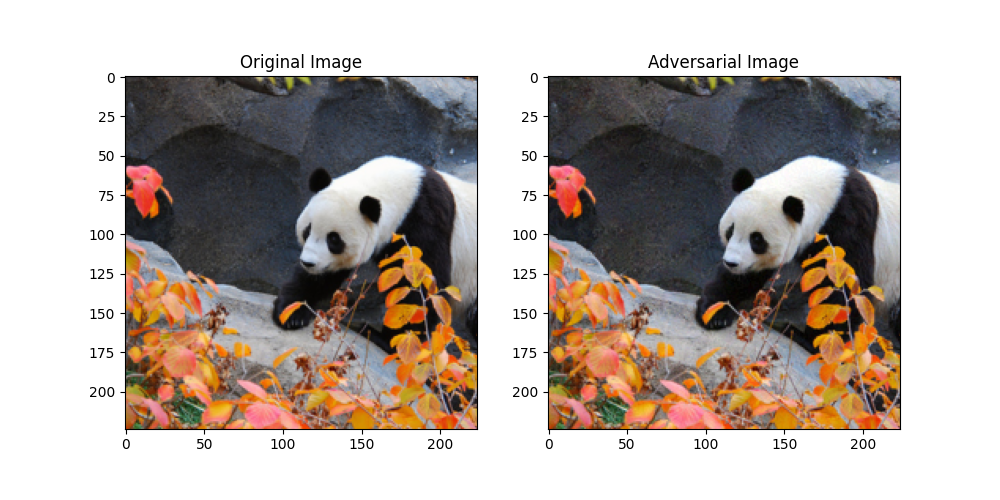
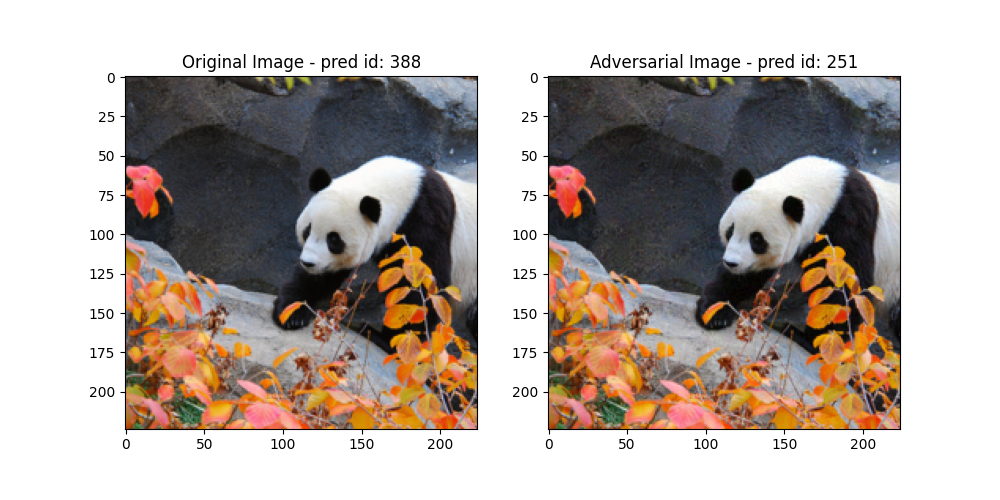
Updated README.md, added more models and tried extrapolation, single image example now test the adversarial image, added requirements.txt, removed unused functions and cleaned the code.

Changed region(s): [[0.186, 0.09, 0.434, 0.15], [0.589, 0.09, 0.868, 0.15]]

diff --git a/model_inference.py b/model_inference.py
@@ -1,7 +1,11 @@
 import torch
-import torchvision
 import torchvision.transforms as transforms
-from torchvision.models import resnet18, ResNet18_Weights
+from torchvision.models import (
+    resnet18, ResNet18_Weights,
+    resnet50, ResNet50_Weights,
+    convnext_tiny, ConvNeXt_Tiny_Weights,
+    convnext_small, ConvNeXt_Small_Weights
+)
 from torch.utils.data import DataLoader, Dataset
 from pathlib import Path
 from PIL import Image
@@ -10,7 +14,7 @@ import json
 from tqdm import tqdm
 import os
 
-from adversarial_transform import AdversarialDataset, FGSM
+from adversarial_transform import FGSM
 
 
 class ImageNetValidationDataset(Dataset):
@@ -42,12 +46,21 @@ class ImageNetValidationDataset(Dataset):
             
         return image, label
 
-def setup_model(device=torch.device('cpu')):
-    # Load pretrained ResNet18
-    weights = ResNet18_Weights(ResNet18_Weights.DEFAULT)
-    model = resnet18(weights=weights)
+def setup_model(model_name="resnet18", device=torch.device('cpu')):
+    model_configs = {
+        'resnet18': (resnet18, ResNet18_Weights.DEFAULT),
+        'resnet50': (resnet50, ResNet50_Weights.DEFAULT),
+        'convnext_tiny': (convnext_tiny, ConvNeXt_Tiny_Weights.DEFAULT),
+        'convnext_small': (convnext_small, ConvNeXt_Small_Weights.DEFAULT)
+    }
+    
+    if model_name not in model_configs:
+        raise ValueError(f"Model {model_name} not supported. Choose from {list(model_configs.keys())}")
+    
+    model_fn, weights = model_configs[model_name]
+    model = model_fn(weights=weights)
     model.eval()
-    return model.to(device) 
+    return model.to(device)
 
 def setup_validation_data(val_dir, batch_size=32):
     # Standard ImageNet transforms
@@ -87,23 +100,6 @@ def setup_validation_data(val_dir, batch_size=32):
     return val_dataset, val_loader
 
 
-def setup_validation_adversarial_data(val_dataset, model, epsilon=0.05, batch_size=32):
-    # Create adversarial dataset
-    adversarial_dataset = AdversarialDataset(
-        val_dataset, 
-        model, 
-        epsilon)
-        
-    # Create DataLoader
-    val_loader = DataLoader(
-        adversarial_dataset,
-        batch_size=batch_size,
-        shuffle=False,
-        num_workers=4
-    )
-    
-    return adversarial_dataset, val_loader
-
 def predict(model, val_loader):
     device = model.parameters().__next__().device
     predictions_top1 = []
@@ -128,7 +124,7 @@ def predict_adversarial(model, val_loader, fgsm):
     device = model.parameters().__next__().device
     fgsm_device = fgsm.model.parameters().__next__().device
     if device != fgsm_device:
-        print("[Warning]: Model and FGSM model should be on the same device!")
+        print("[Warning]: Model and FGSM model are not on the same device!")
     predictions_top1 = []
     predictions_top5 = []
     true_labels = []
@@ -161,7 +157,7 @@ def calculate_accuracy(predictions_top1, predictions_top5, true_labels):
 def main():
     # Set up model
     device = torch.device("cuda") if torch.cuda.is_available() else torch.device("cpu")
-    model = setup_model(device)
+    model = setup_model("resnet18", device)
     
     # Set ImageNet validation directory
     IMAGENET_1K_VAL_DIR = os.environ["IMAGENET_1K_VAL_DIR"]
@@ -174,7 +170,7 @@ def main():
     assert len(val_dataset) == 50000, "Validation dataset should have 50,000 images"
 
     # FGSM
-    model_fgsm = setup_model(device)
+    model_fgsm = setup_model("resnet18", device)
     fgsm = FGSM(model_fgsm, epsilon=0.05)
 
     # Benchmark original dataset

diff --git a/single_image_example.py b/single_image_example.py
@@ -38,28 +38,37 @@ def main():
     # Create adversarial image
     adversarial_image, _ = fgsm.generate(image.unsqueeze(0), torch.tensor([label]))
 
+    # test model on original and adversarial image
+    with torch.no_grad():
+        output = model(image.unsqueeze(0).to(device))
+        output_adv = model(adversarial_image.to(device))
+
+        print(f"Original Image: {output.argmax()}")
+        print(f"Adversarial Image: {output_adv.argmax()}")
+        print(f"Ground Truth Label: {label}")
+    
+
     # squeeze batch dimension
-    image = image.squeeze(0)
-    adversarial_image = adversarial_image.squeeze(0)
+    image_viz = image.squeeze(0)
+    adversarial_image_viz = adversarial_image.squeeze(0)
 
 
     # reverse normalization to visualise images for perceptual difference
-    image_viz = image * torch.tensor([0.229, 0.224, 0.225]).view(3, 1, 1) + torch.tensor([0.485, 0.456, 0.406]).view(3, 1, 1)
-    adversarial_image_viz = adversarial_image * torch.tensor([0.229, 0.224, 0.225]).view(3, 1, 1) + torch.tensor([0.485, 0.456, 0.406]).view(3, 1, 1)
+    image_viz = image_viz * torch.tensor([0.229, 0.224, 0.225]).view(3, 1, 1) + torch.tensor([0.485, 0.456, 0.406]).view(3, 1, 1)
+    adversarial_image_viz = adversarial_image_viz * torch.tensor([0.229, 0.224, 0.225]).view(3, 1, 1) + torch.tensor([0.485, 0.456, 0.406]).view(3, 1, 1)
 
     image_viz = torch.clamp(image_viz, 0, 1).permute(1, 2, 0)
     adversarial_image_viz = torch.clamp(adversarial_image_viz, 0, 1).permute(1, 2, 0)
 
     fig, axes = plt.subplots(1, 2, figsize=(10, 5))
     axes[0].imshow(image_viz)
-    axes[0].set_title("Original Image")
+    axes[0].set_title(f"Original Image - pred id: {output.argmax().item()}")
     axes[1].imshow(adversarial_image_viz)
-    axes[1].set_title("Adversarial Image")
+    axes[1].set_title(f"Adversarial Image - pred id: {output_adv.argmax().item()}")
 
     os.makedirs("output", exist_ok=True)
     fig.savefig("output/result.png")
 
-    return
 
 if __name__ == "__main__":
     main()

diff --git a/README.md b/README.md
@@ -1,23 +1,64 @@
-# ML Challenge
+# Fast Gradient Sign Method (FGSM) Adversarial Transformation
+This project implement Fast Gradient Sign Method (FGSM) adversarial transformation using PyTorch. FGSM is a simple yet effective method to generate adversarial examples. The idea is to perturb the input image in the direction of the gradient of the loss with respect to the input image. The perturbation is calculated as:
+
+```math
+x_{adv} = x + \epsilon * sign(\nabla_x J(\theta, x, y))
+```
+
+where:
+- x: input image
+- x_{adv}: adversarial image
+- \epsilon: perturbation magnitude
+- J: loss function
+- \theta: model parameters
+- y: target label
+
+The project also includes a benchmarking of the adversarial transformation on ImageNet-1k-val dataset using ResNet18, ResNet50, and ConvNeXt Tiny models.
+
 
 ## Setup
 
 ```bash
 # Clone the repository
-git clone <repository-url>
+git clone
 
 # Install dependencies
 pip install -r requirements.txt
 ```
 
 ## Project Structure
-adverarial_transform.py contains adversarial transformation.
-model_inference.py contains imagenet benchmarking.
+adverarial_transform.py - adversarial transformation.
+single_image_example.py - single image adversarial transformation.
+model_inference.py - ImageNet-1k-val benchmarking.
 
 ## Results
-| Exp. \ Model   | ResNet18 | ResNet50 | ConvNeXt Tiny |
-|----------------|----------|----------|---------------|
-| acc@1          | 69.76%   | -----    | -----         |
-| acc@5          | 89.08%   | -----    | -----         |
-| acc@1 + FGSN   |  1.24%   | -----    | -----         |
-| acc@5 + FGSN   | 16.54%   | -----    | -----         |
+I use resnet18, resnet50, and ConvNeXt Tiny models to benchmark the adversarial transformation on ImageNet-1k-val dataset with epsilon set to 0.05. 
+
+Additionally, I explore extrapolation of resnet18 as an FGSM model to measure the effectiveness of theis method on other models from the same family and not.
+The results are shown in the table below:
+
+
+|      Experiment \ Model      | ResNet18 | ResNet50 | ConvNeXt Tiny |
+|------------------------------|----------|----------|---------------|
+| acc@1                        |  69.76%  |  80.34%  |    82.13%     |
+| acc@5                        |  89.08%  |  95.13%  |    95.95%     |
+| acc@1 + FGSM (resnet18)      |   1.24%  |  68.87%  |    73.49%     |
+| acc@5 + FGSM (resnet18)      |  16.54%  |  90.45%  |    92.44%     |
+| acc@1 + FGSM (convnext_tiny) |  ------  |  ------  |    34.07%     |
+| acc@5 + FGSM (convnext_tiny) |  ------  |  ------  |    57.69%     |
+
+## Conclusion
+The adversarial transformation is effective in reducing the accuracy of the models if the weights are aviailable. The adversarial transformation is more effective on older models with ReLU activation functions than newer models with more complex activation functions. 
+
+The adversarial transformation is not effective if FGSM model is different from the model being attacked. There is not enough evidence to suggest that the adversarial transformation is effective on models from the same family.
+
+## Future Work
+- Use FLIP evaluate perceptual quality of images.
+- Attempt to train epsilon as a parameter using FLIP loss as a perceptual quality loss.
+- Attempt to generalise the adversarial transformation to attack unknown models.
+
+## References
+- [Explaining and Harnessing Adversarial Examples](https://arxiv.org/abs/1412.6572)
+- [Deep Residual Learning for Image Recognition](https://arxiv.org/abs/1512.03385)
+- [A ConvNet for the 2020s](https://arxiv.org/abs/2201.03545)
+- [FLIP: A Difference Evaluator for Alternating Images](https://research.nvidia.com/sites/default/files/node/3260/FLIP_Paper.pdf)
